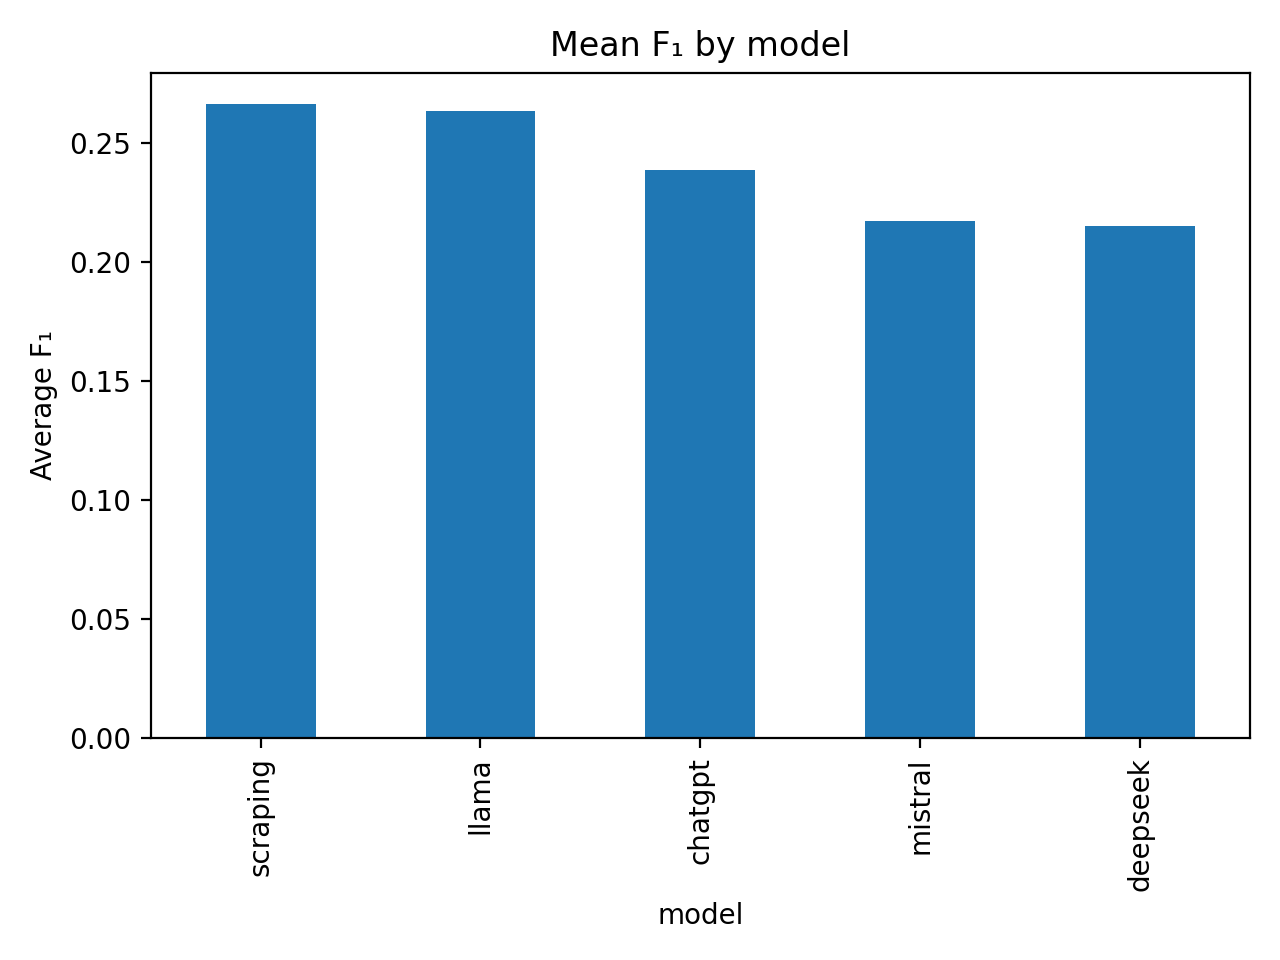
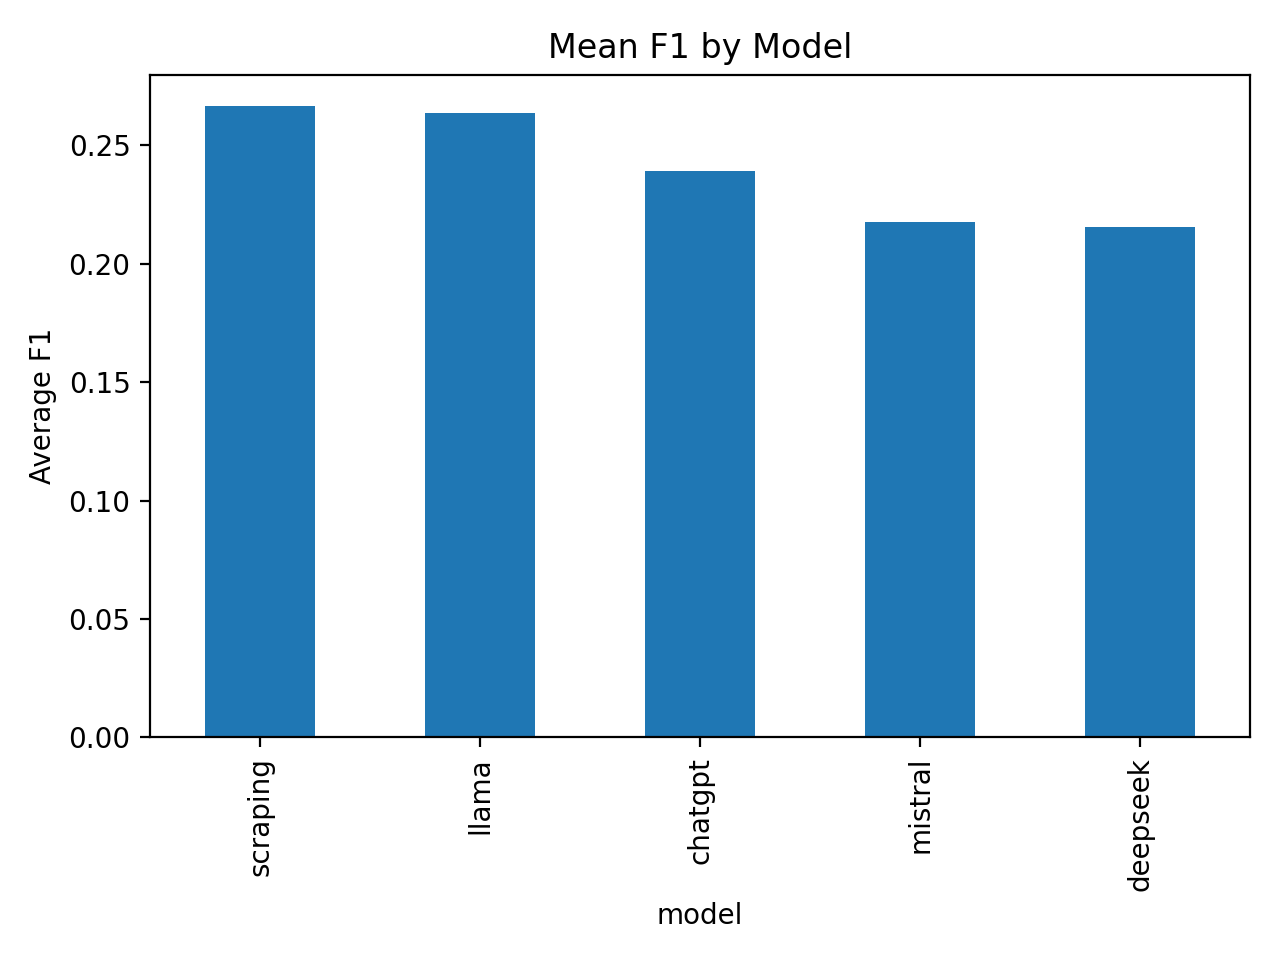
Added new plotter for scraping evaluations

diff --git a/llm_evals/plot_evals.py b/llm_evals/plot_evals.py
@@ -1,0 +1,61 @@
+import json
+import pandas as pd
+import matplotlib.pyplot as plt
+import seaborn as sns
+from pathlib import Path
+
+PLOTS_DIR = Path("llm_evals/plots")
+PLOTS_DIR.mkdir(exist_ok=True)
+
+def load_json_to_df(json_path):
+    with open(json_path, "r") as f:
+        data = json.load(f)
+
+    if isinstance(data, dict) and "professor" in data:
+        data = [data]
+
+    records = []
+    for entry in data:
+        prof = entry["professor"]
+        for model, metrics in entry["metrics"].items():
+            records.append({
+                "professor": prof,
+                "model": model,
+                "precision": metrics.get("precision", 0.0),
+                "recall": metrics.get("recall", 0.0),
+                "f1": metrics.get("f1", 0.0),
+                "jaccard": metrics.get("jaccard", 0.0),
+            })
+
+    return pd.DataFrame(records)
+
+def plot_all_metrics_from_json(json_path):
+    df = load_json_to_df(json_path)
+
+    df_agg = df.groupby(["professor", "model"]).mean(numeric_only=True).reset_index()
+
+    for metric in ["precision", "recall", "f1", "jaccard"]:
+        avg = df_agg.groupby("model")[metric].mean().sort_values(ascending=False)
+
+        avg.plot(kind="bar")
+        plt.ylabel(f"Average {metric.capitalize()}"); plt.title(f"Mean {metric.capitalize()} by Model")
+        plt.tight_layout()
+        plt.savefig(PLOTS_DIR / f"avg_{metric}_by_model.png", dpi=200)
+        plt.close()
+
+        sns.boxplot(data=df_agg, x="model", y=metric, order=avg.index)
+        plt.ylabel(metric.capitalize()); plt.title(f"{metric.capitalize()} Score Distribution")
+        plt.tight_layout()
+        plt.savefig(PLOTS_DIR / f"boxplot_{metric}.png", dpi=200)
+        plt.close()
+
+        pivot = df_agg.pivot(index="professor", columns="model", values=metric)
+        sns.heatmap(pivot, cmap="viridis", vmin=0, vmax=1, annot=False)
+        plt.title(f"Per-professor {metric.capitalize()}")
+        plt.tight_layout()
+        plt.savefig(PLOTS_DIR / f"heatmap_{metric}.png", dpi=200)
+        plt.close()
+
+    print("✓ Saved plots for all metrics under", PLOTS_DIR)
+
+plot_all_metrics_from_json("llm_evals/data/metrics.json")

diff --git a/llm_evals/evaluate_llms.py b/llm_evals/evaluate_llms.py
@@ -188,4 +188,4 @@ if __name__ == "__main__":
     args = parser.parse_args()
 
     df_metrics = main(args.results, args.limit)
-    plot_results(df_metrics)
+    # plot_results(df_metrics)
